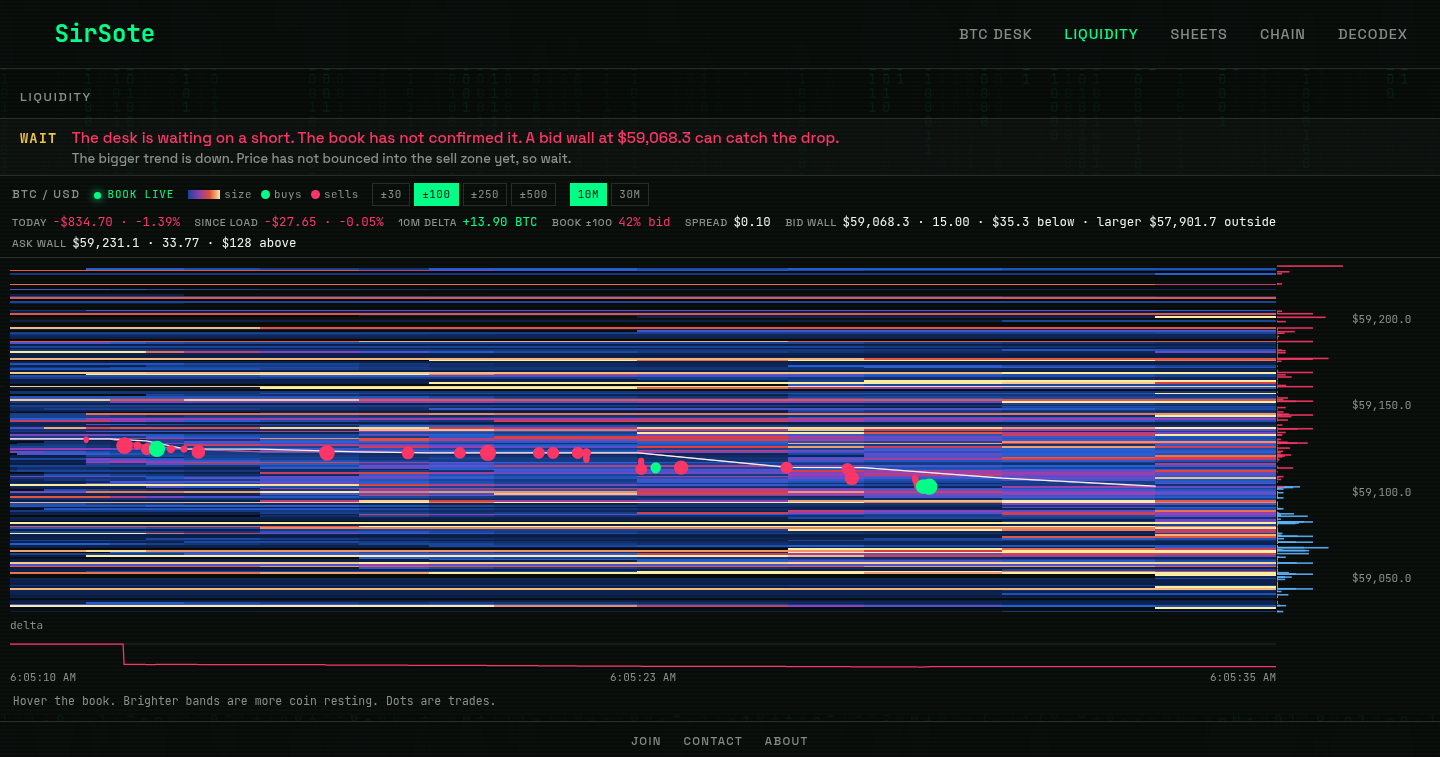
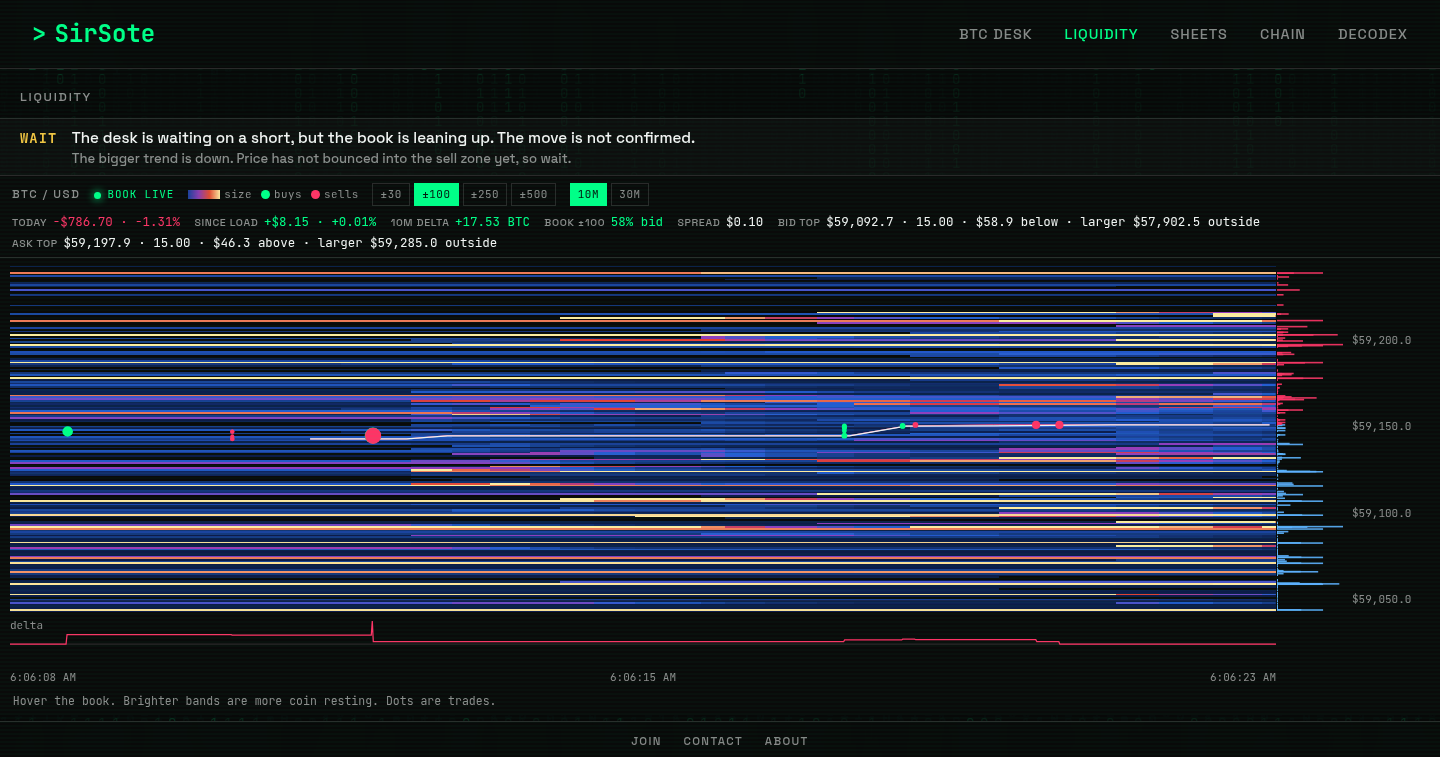
Update the sheet.

diff --git a/p/sheets/index.html b/p/sheets/index.html
@@ -36,7 +36,7 @@
             <div><dt>Swing</dt><dd><span class="call short">SHORT</span></dd></div>
             <div><dt>Hold</dt><dd><span class="call short">SHORT</span></dd></div>
         </dl>
-        
+        <p class="why">Book <span class="call short">fights the path</span></p>
         
         <p class="why">The bigger trend is down. Price has not bounced into the sell zone yet, so wait.</p>
         
